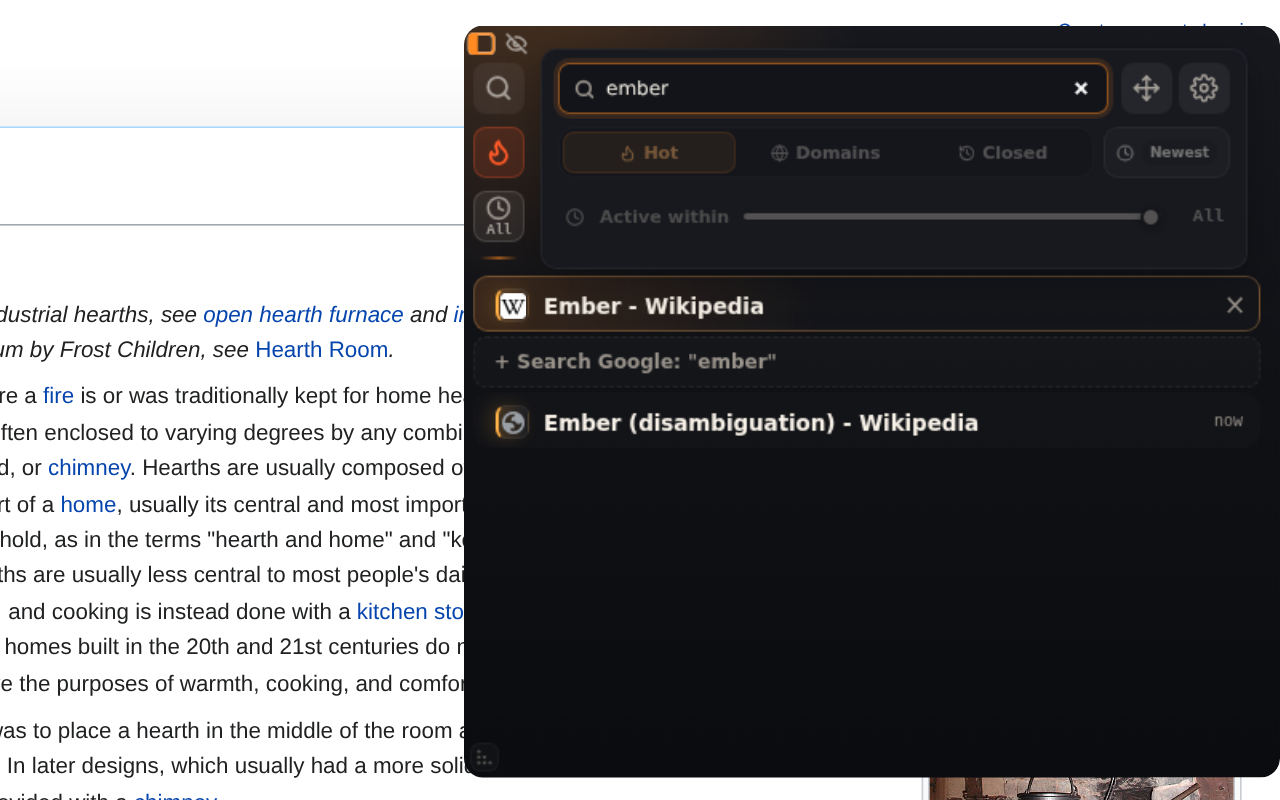
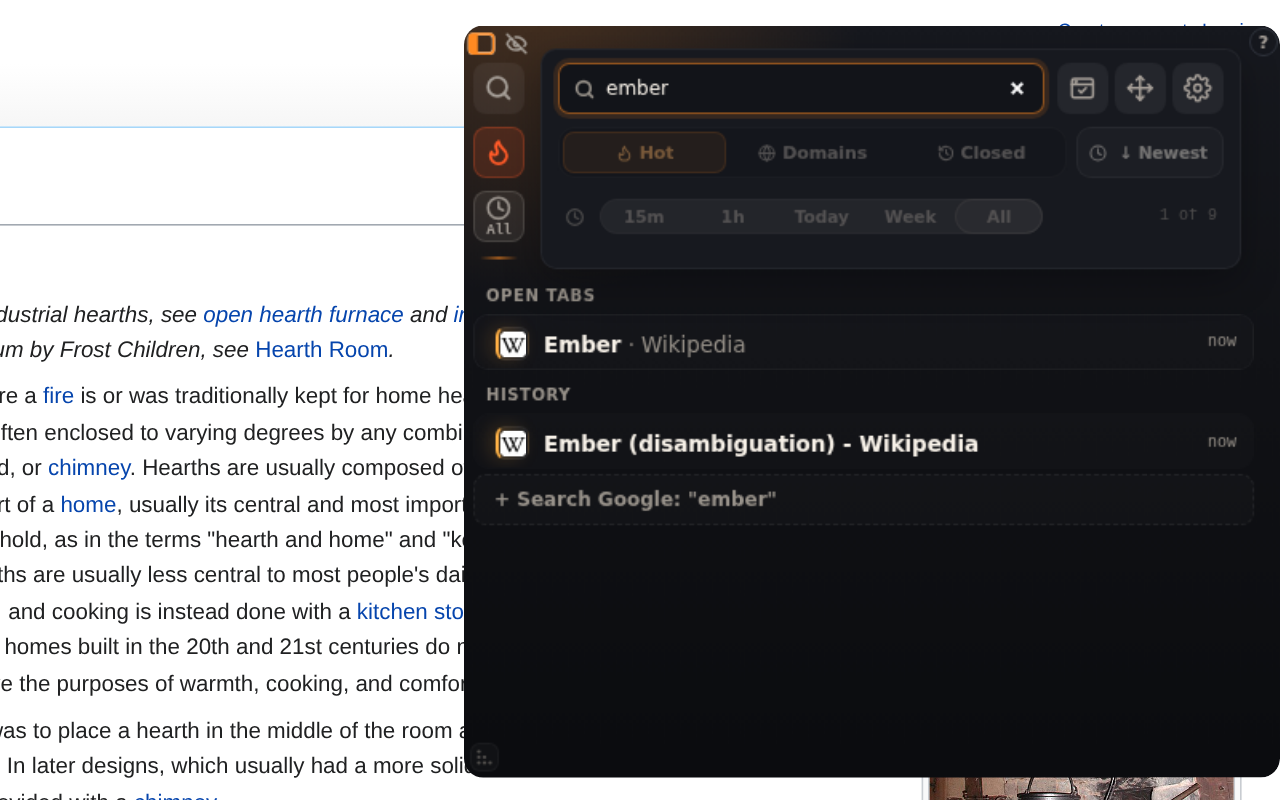
Changelog 0.6.5; structured data at 0.6.5; screenshots re-shot

diff --git a/changelog.html b/changelog.html
@@ -38,6 +38,8 @@
     <h1>Changelog</h1>
     <p>What changed in each version, newest first.</p>
     <p>vatra <a href="https://chromewebstore.google.com/detail/lcnmjfcejdglgmppnhhfmgkakjbeljdh?utm_source=vatra-site&amp;utm_medium=website&amp;utm_campaign=changelog">on the Chrome Web Store</a></p>
+    <h2>0.6.5 — November 2026</h2>
+    <ul><li>New settings.</li><li>Visual refinements.</li><li>Bug fixes.</li><li>Under-the-hood improvements.</li></ul>
     <h2>0.6.4 — October 2026</h2>
     <ul><li>Bug fixes.</li></ul>
     <h2>0.6.3 — October 2026</h2>

diff --git a/index.html b/index.html
@@ -46,7 +46,7 @@
   "applicationCategory": "BrowserApplication",
   "operatingSystem": "Chrome",
   "browserRequirements": "Requires Chrome 116 or later",
-  "softwareVersion": "0.6.4",
+  "softwareVersion": "0.6.5",
   "image": "https://vyshni-labs.github.io/vatra-tab-manager/assets/og-cover.png",
   "screenshot": [
     "https://vyshni-labs.github.io/vatra-tab-manager/assets/shot1-panel.png",
